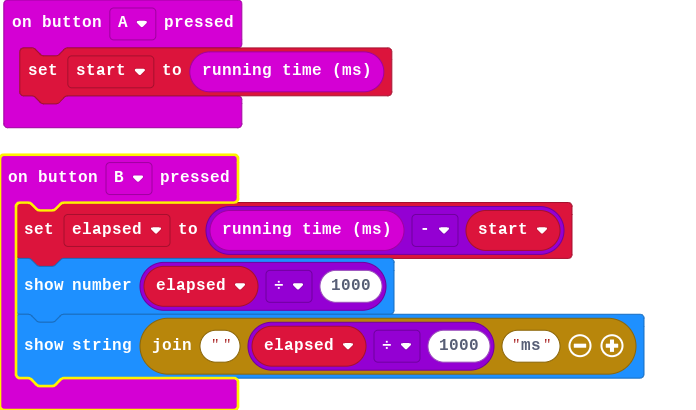
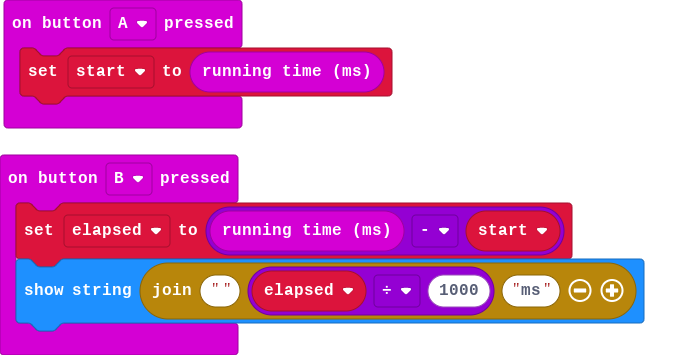
:(

diff --git a/main.ts b/main.ts
@@ -5,6 +5,5 @@ input.onButtonPressed(Button.A, function () {
 })
 input.onButtonPressed(Button.B, function () {
     elapsed = input.runningTime() - start
-    basic.showNumber(elapsed / 1000)
     basic.showString("" + elapsed / 1000 + "ms")
 })
